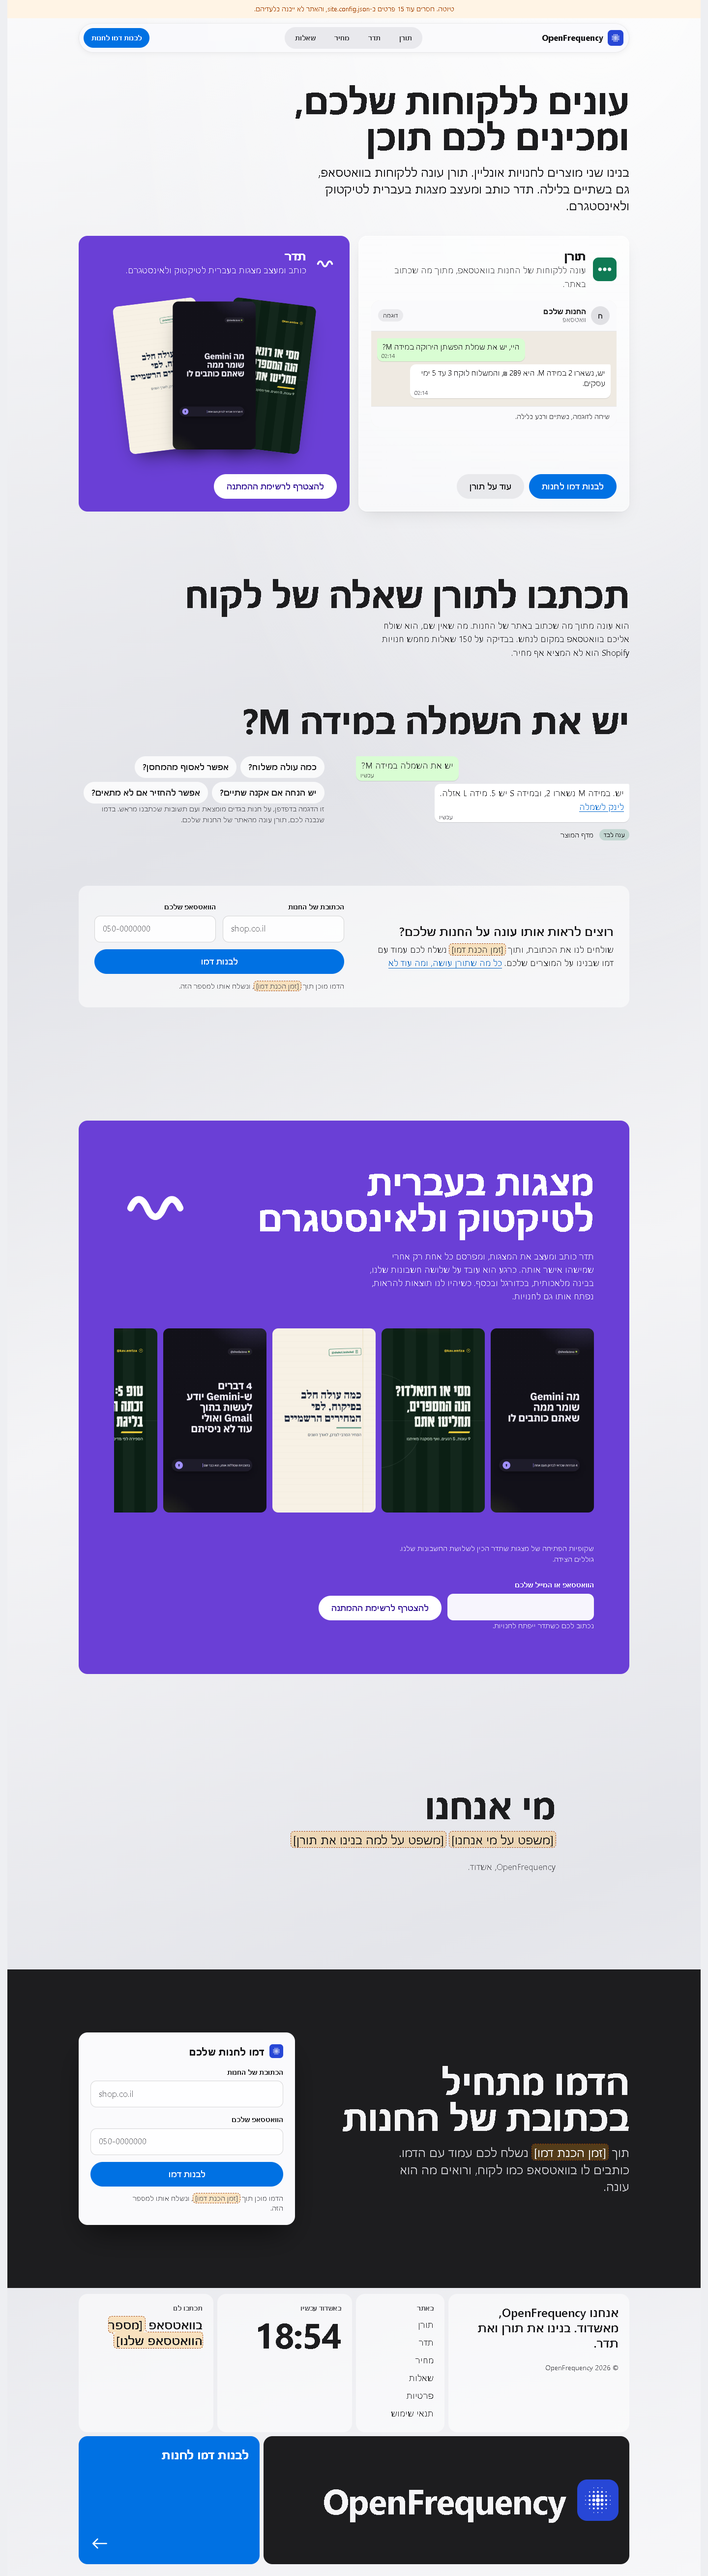
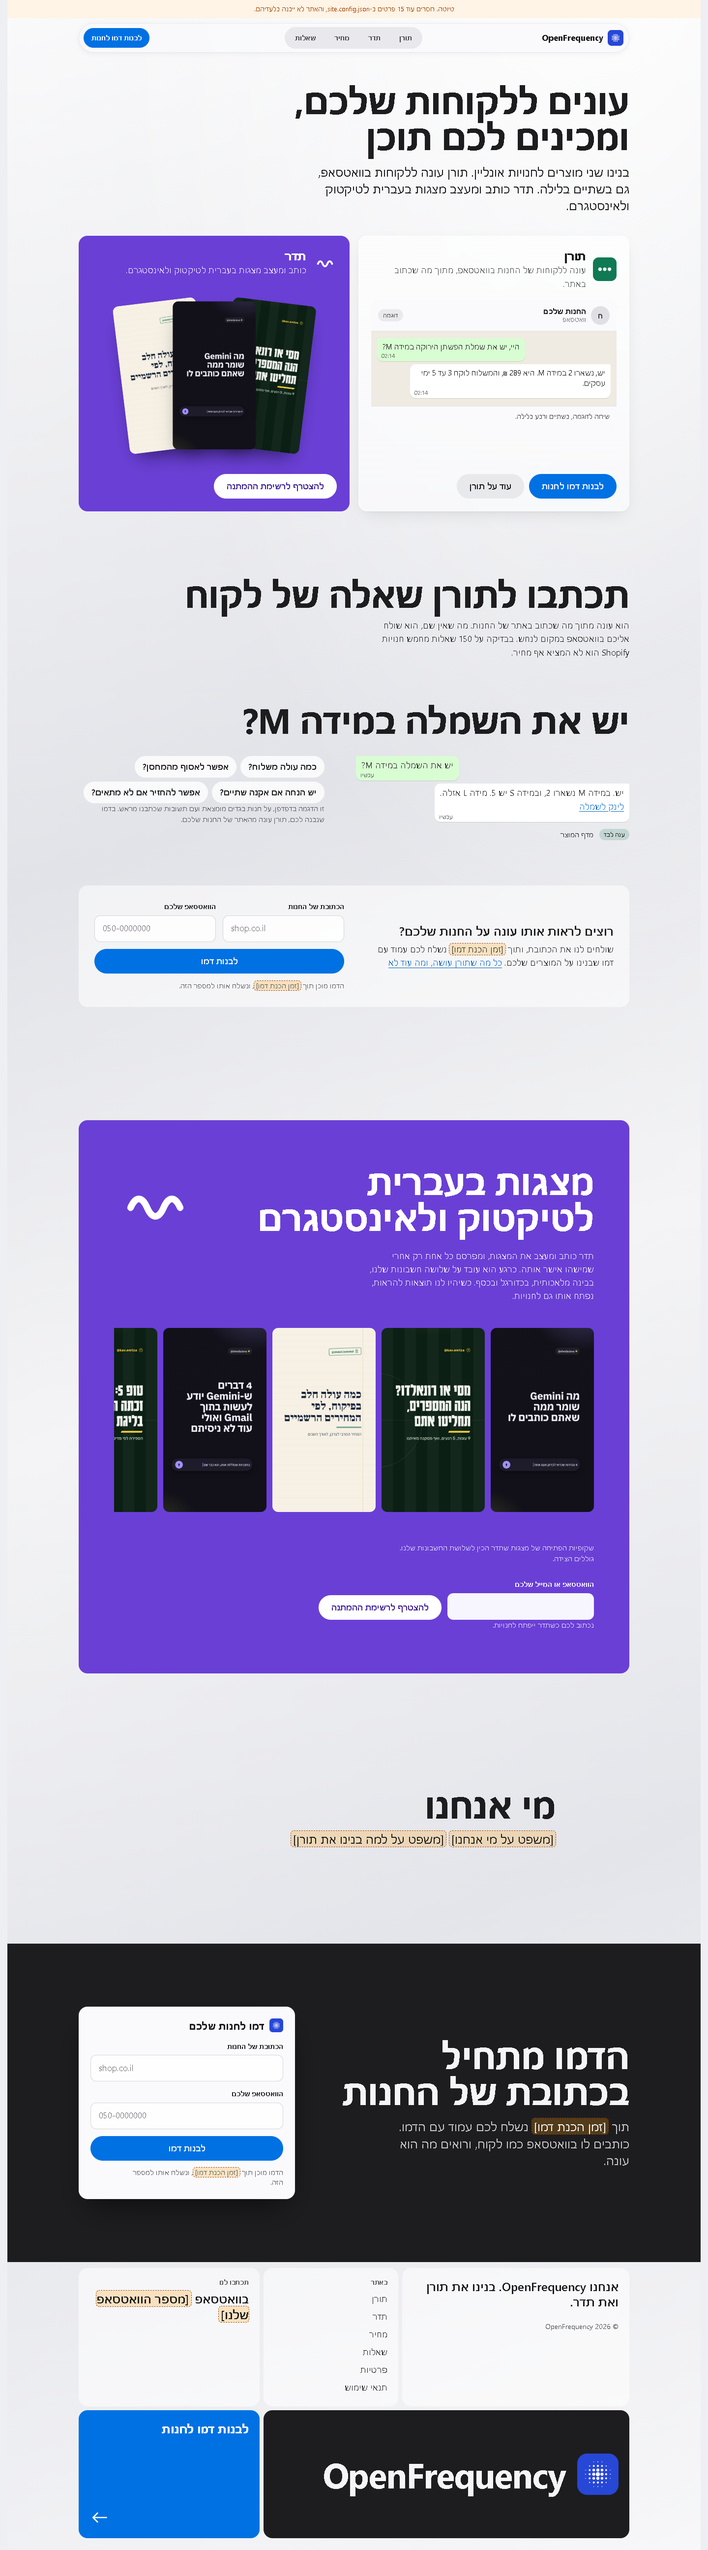
No Ashdod anywhere: the city is out of the config, the footer and who we are, and the footer clock with it
Claude-Session: https://claude.ai/code/session_01EZAtgQct1vSgiWRrNb1M1B

diff --git a/src/style.css b/src/style.css
@@ -629,7 +629,6 @@ input:focus, textarea:focus { outline: none; border-color: var(--accent-fill); b
 .board ul { margin: 0; padding: 0; list-style: none; display: grid; gap: 4px; }
 .board ul a { display: inline-flex; min-height: 32px; align-items: center; color: var(--ink); text-decoration: none; }
 @media (hover: hover) { .board ul a:hover { text-decoration: underline; } }
-.board .clock { font: 700 var(--fs-display)/1 var(--display); font-variant-numeric: tabular-nums; letter-spacing: -0.02em; }
 .board .wa { color: var(--ink); font: 600 var(--fs-lead)/1.3 var(--display); }
 .board .word { margin: 0; display: flex; align-items: center; gap: clamp(12px, 2vw, 24px); background: var(--night); color: var(--night-ink); font: 700 var(--fs-display)/1 var(--display); letter-spacing: -0.03em; min-height: 160px; }
 .board .word .mark { --s: clamp(44px, 6vw, 84px); }
@@ -642,9 +641,9 @@ input:focus, textarea:focus { outline: none; border-color: var(--accent-fill); b
 .credits { max-width: min(var(--max), 75ch); margin: 14px auto 0; color: var(--ink-p); font-size: var(--fs-small); }
 .credits a { color: inherit; }
 /* On a phone the board is two columns: the small tiles (the links, the time) pair up, the rest run full width. */
-@media (max-width: 699px) { .board { grid-template-columns: 1fr 1fr; } .board .t-who, .board .t-wa, .board .word, .board .go { grid-column: 1 / -1; } }
-@media (min-width: 700px) { .board { grid-template-columns: repeat(12, minmax(0, 1fr)); } .board .t-who { grid-column: span 4; } .board .t-nav { grid-column: span 2; } .board .t-time { grid-column: span 3; } .board .t-wa { grid-column: span 3; } .board .word { grid-column: span 8; min-height: 260px; } .board .go { grid-column: span 4; min-height: 260px; } }
-@media (min-width: 700px) and (max-width: 999px) { .board .t-who, .board .t-nav, .board .t-time, .board .t-wa { grid-column: span 6; } }
+@media (max-width: 699px) { .board { grid-template-columns: 1fr; } .board ul { grid-template-columns: 1fr 1fr; } }
+@media (min-width: 700px) { .board { grid-template-columns: repeat(12, minmax(0, 1fr)); } .board .t-who { grid-column: span 5; } .board .t-nav { grid-column: span 3; } .board .t-wa { grid-column: span 4; } .board .word { grid-column: span 8; min-height: 260px; } .board .go { grid-column: span 4; min-height: 260px; } }
+@media (min-width: 700px) and (max-width: 999px) { .board .t-who { grid-column: 1 / -1; } .board .t-nav, .board .t-wa { grid-column: span 6; } }
 
 /* ------------------------------------------------------------ the Toran page */
 

diff --git a/src/site.js b/src/site.js
@@ -1,4 +1,4 @@
-// The site's script: the motion, the two clocks, and the question box. Every part checks that its elements are on
+// The site's script: the motion, the duty log clock, and the question box. Every part checks that its elements are on
 // the page, and every part leaves the page whole without it: the content is in the HTML, visible, and script only
 // times its arrival or adds what changes by the minute.
 (function () {
@@ -73,14 +73,12 @@
     Array.prototype.forEach.call(steps, function (s) { mid.observe(s); });
   }
 
-  // The time in Israel, for the duty log's now and the footer's clock. Checked every 20 seconds.
+  // The time in Israel, for the duty log's now. Checked every 20 seconds.
   var fmt = new Intl.DateTimeFormat('he-IL', { timeZone: 'Asia/Jerusalem', hour: '2-digit', minute: '2-digit', hour12: false });
   var log = d.querySelector('[data-log]'), now = d.querySelector('[data-now]');
-  var clockTile = d.querySelector('[data-clock-tile]');
   var tick = function () {
     var hm = fmt.format(new Date());
-    each('[data-clock], [data-now-time]', function (el) { el.textContent = hm; el.setAttribute('datetime', hm); });
-    if (clockTile) clockTile.hidden = false;
+    each('[data-now-time]', function (el) { el.textContent = hm; el.setAttribute('datetime', hm); });
     if (log && now) {
       var mins = function (s) { var p = s.split(':'); return +p[0] * 60 + +p[1]; };
       var after = null;

diff --git a/DESIGN.md b/DESIGN.md
@@ -203,7 +203,7 @@ A hue-less silver and ink system with one action blue, three brand-mark colours,
 
 ### Hierarchy
 - **Figure** (700, clamp 88–216px, 0.86, -0.035em, tabular): the price only.
-- **Display** (700, clamp 28–72px, 1.04, -0.012em, balanced wrap): every h1 and h2, the typed question line, the footer clock and wordmark.
+- **Display** (700, clamp 28–72px, 1.04, -0.012em, balanced wrap): every h1 and h2, the typed question line, and the footer wordmark.
 - **Lead** (600, clamp 20–24px, 1.3; 1.45 for 400 lede paragraphs): h3, FAQ questions, lede and about paragraphs, the close line. Ledes are 34–50ch.
 - **Body** (400, 17px from 900px and 16px below, 1.6): running text, up to 46–62ch.
 - **Small** (400 or 600, 14px): captions, labels, table heads, the legal line and credits.
@@ -266,7 +266,7 @@ Surfaces have one radius: 18px for tiles, glass stages, photo frames, chats, the
 - **Rows and the duty log:** two-ended rows with odd rows on tile at a 12px radius. Dots mark who answers: Toran green answered alone, action blue passed to you, faint not yet. The log's present minute is a 12% blue row whose dot beats.
 - **Eval table:** a real table with tabular figures and odd rows striped on tile at 12% radius corners. Zeros are OK green. On a phone it stays a table with short heads.
 - **FAQ tiles:** details tiles with lead questions and a drawn plus that turns to minus. An open tile fills action blue with white text.
-- **Footer board:** a grid of tiles (12 columns from 700px, two below). It holds a night tile with the wordmark at display size, an action-blue go tile with a drawn arrow that slides 6px on hover, a clock tile and a links tile.
+- **Footer board:** a grid of tiles (12 columns from 700px, one below). It holds a night tile with the wordmark at display size, an action-blue go tile with a drawn arrow that slides 6px on hover, a links tile and a WhatsApp tile.
 - **Closing field:** a full-bleed night section with the demo dialog (sheet, 18px) open beside the line.
 - **Teder field:** one violet field at 18px holding the wave mark and the waitlist form.
 

diff --git a/README.md b/README.md
@@ -78,7 +78,7 @@ em and en dashes, a colon in a heading, `!!`, gendered slashes, bureaucratic phr
 | `assets/brand/` | the marks, copied from openfrequency-toran; never redrawn |
 | `assets/fonts/` | Heebo (OFL), self-hosted, so no visitor's address goes to Google |
 | `assets/photos/` | three archival photographs and a map from Wikimedia Commons, resized; `credits.json` holds each one's source and licence, printed in the footer |
-| `src/site.js` | the motion, the two clocks (the duty log's now, the footer's Ashdod time) and the question box |
+| `src/site.js` | the motion, the duty log's clock and the question box |
 | `src/forms.mjs`, `src/form.js` | the two forms, every word they can show, and the script that sends them |
 | `server/lead.mjs` | the lead endpoint |
 | `deploy/` | the Caddyfile, the endpoint's systemd service and env file, and the deploy script |
